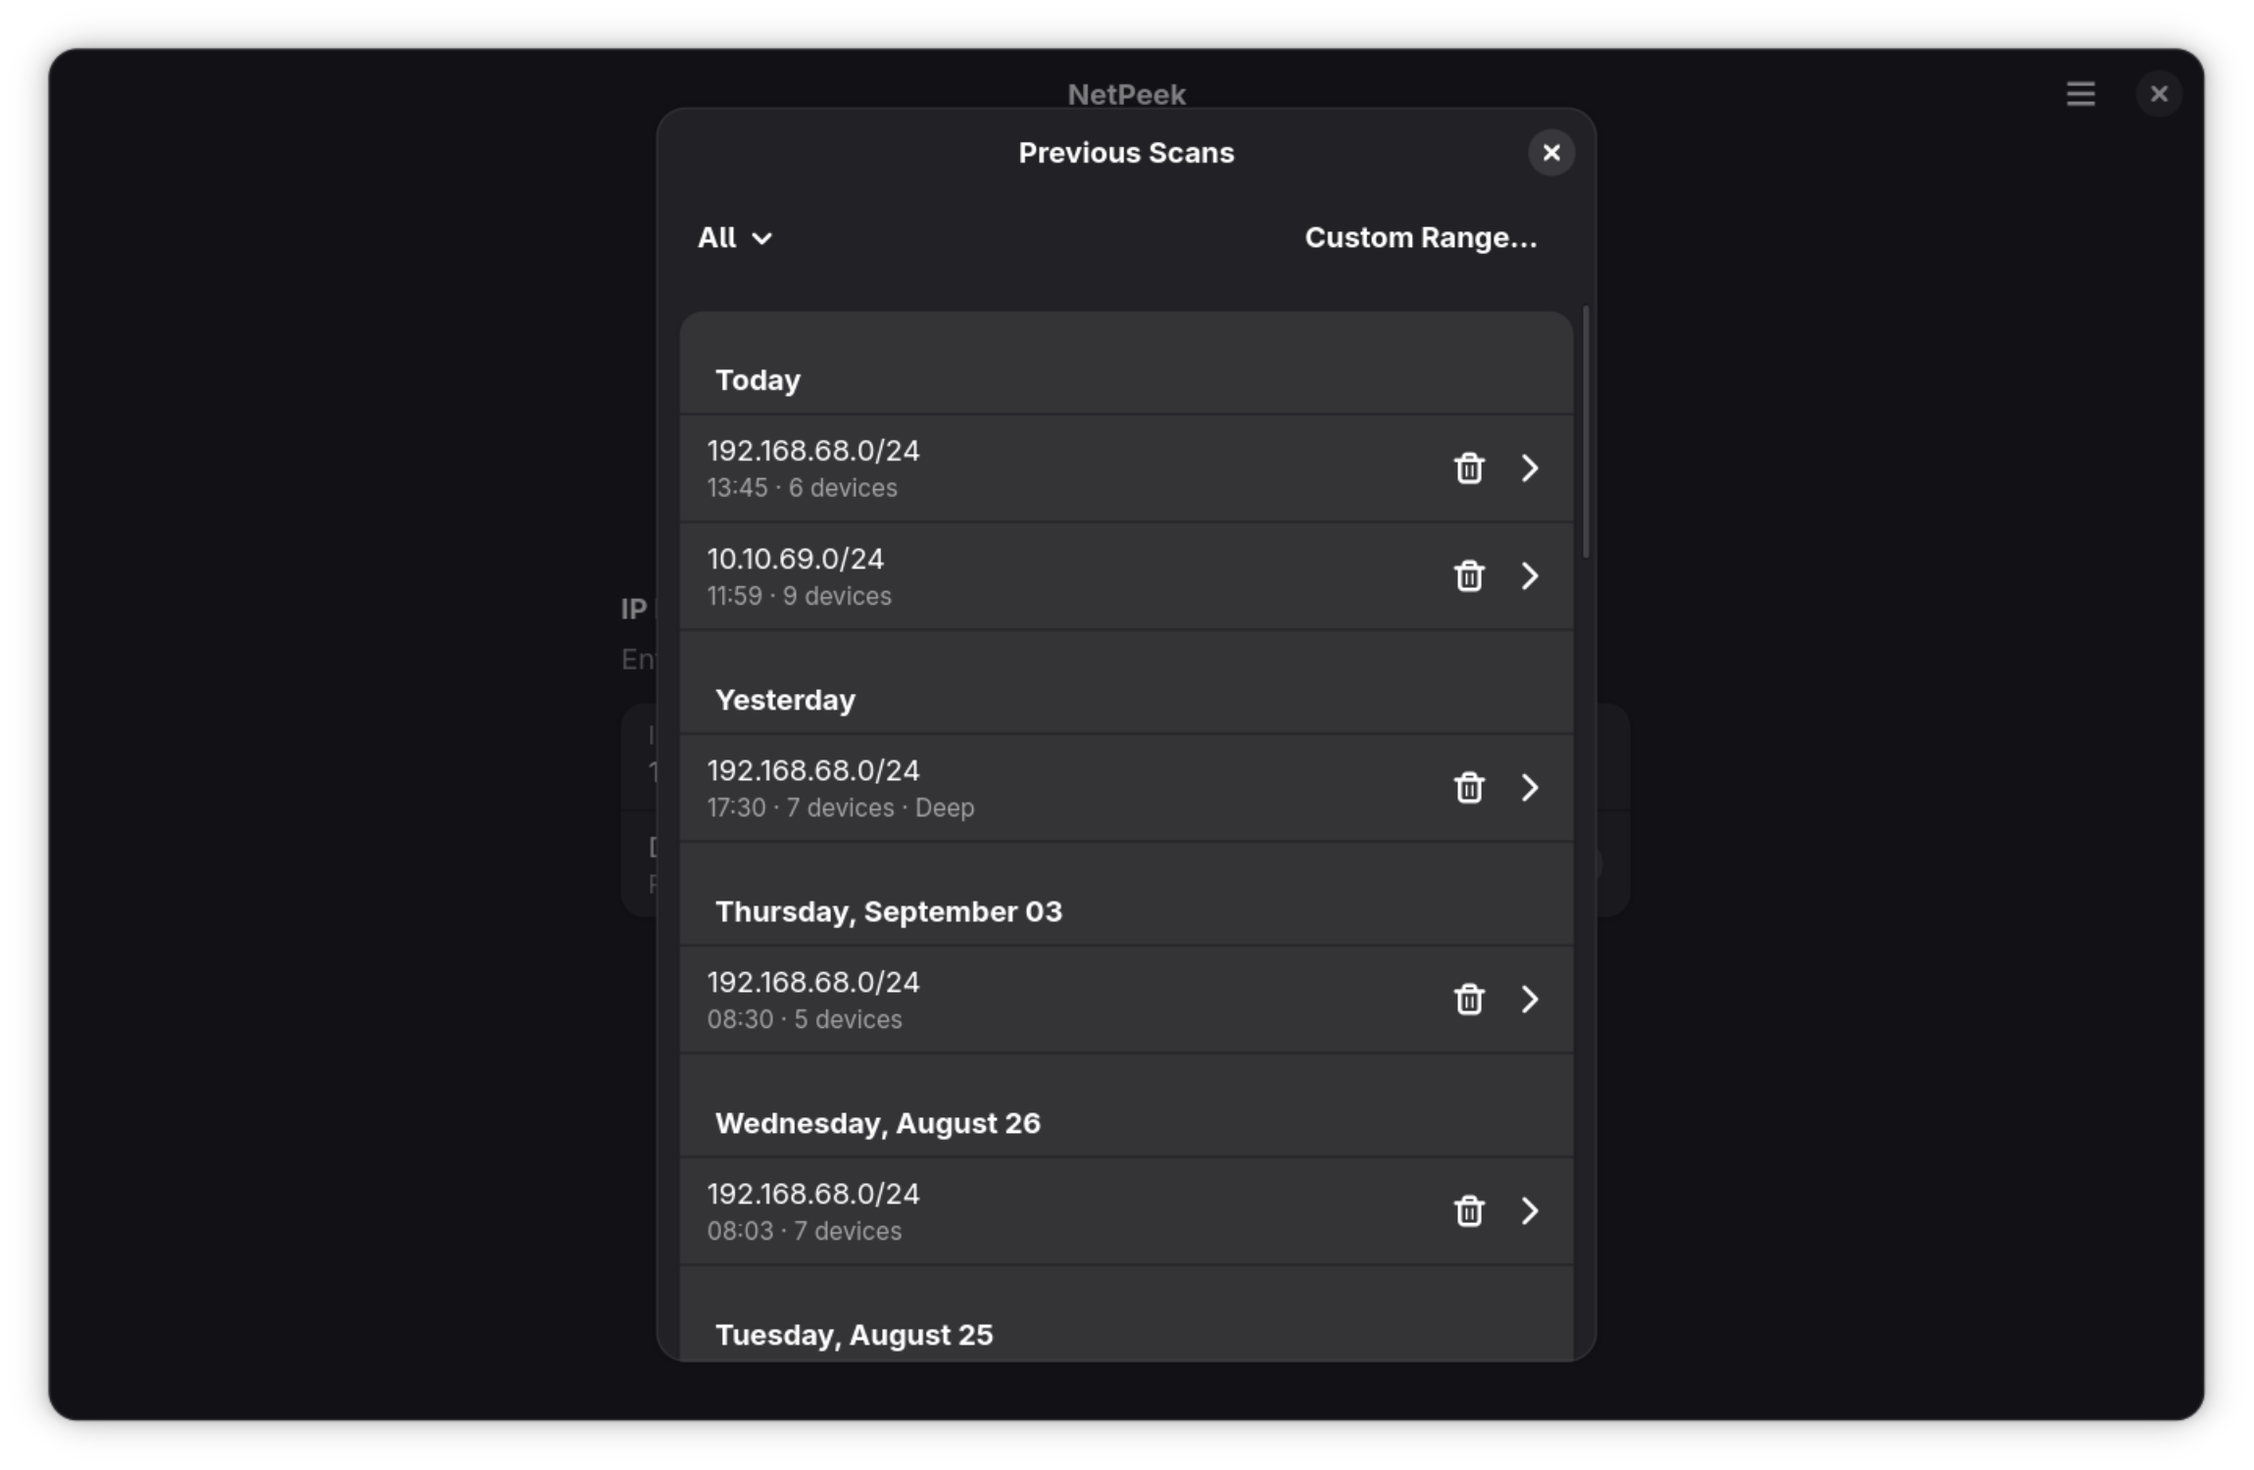
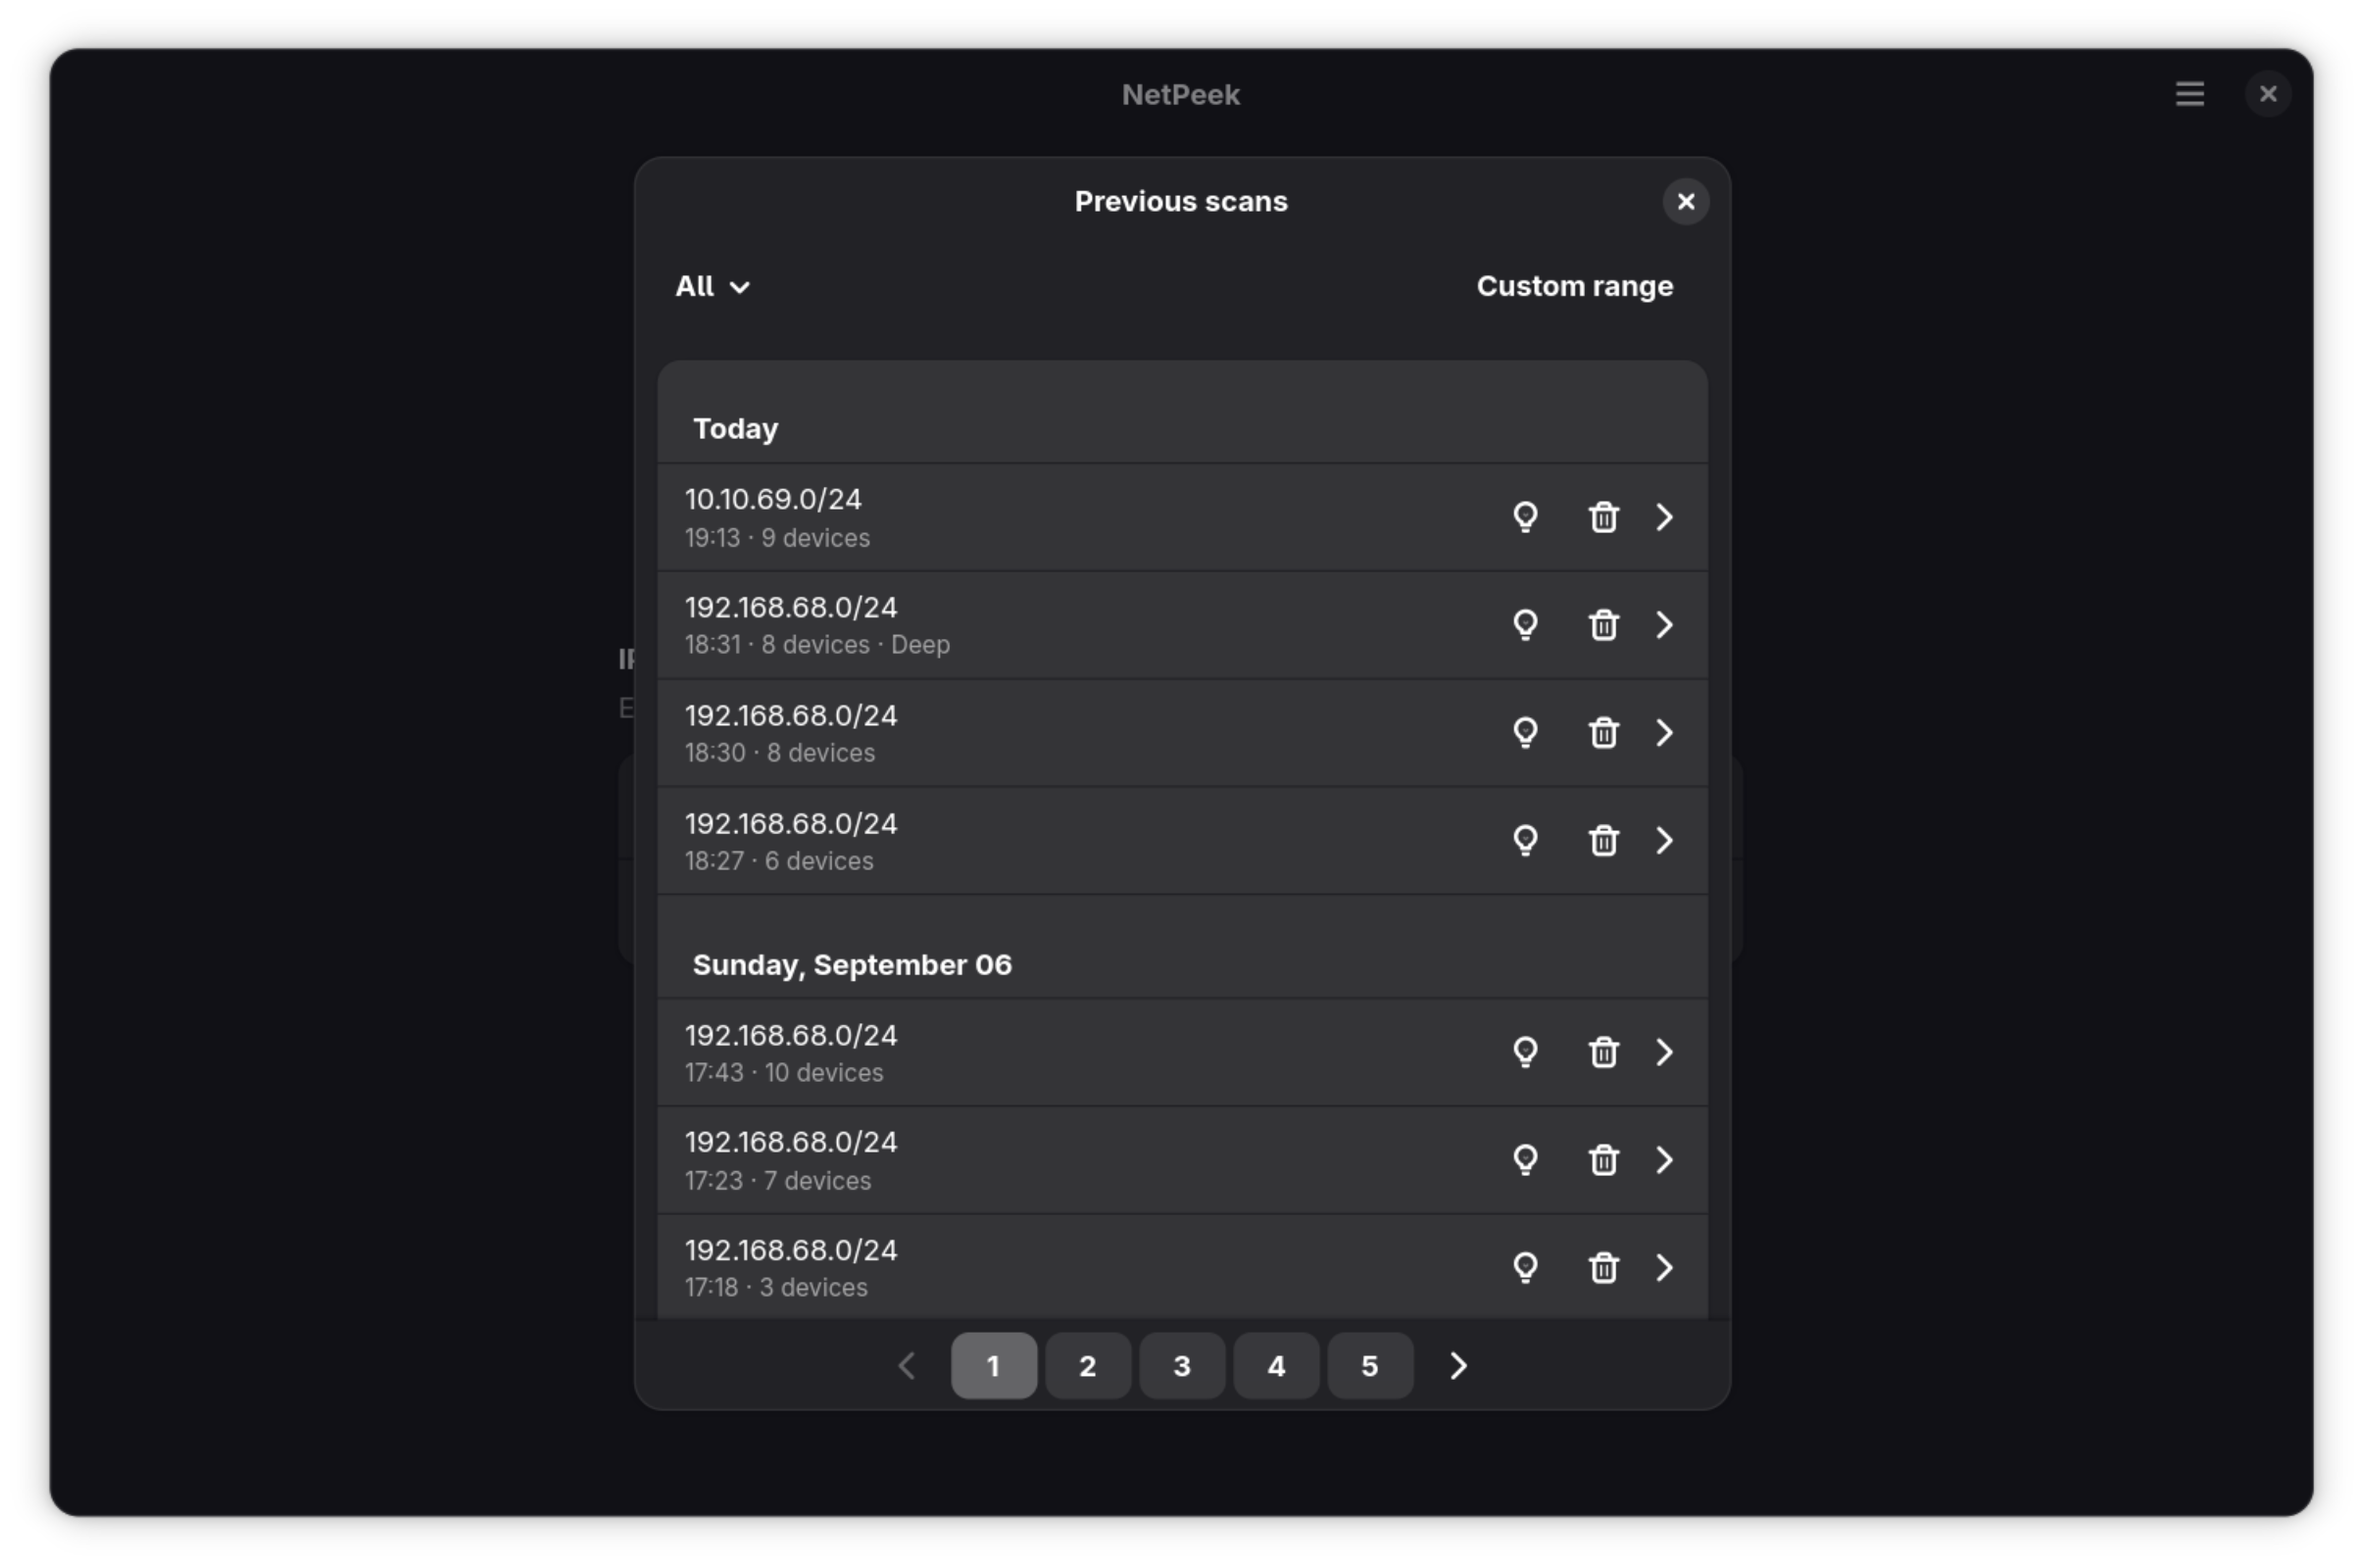
Bump to v0.3.4

diff --git a/src/app.py b/src/app.py
@@ -101,9 +101,13 @@ class NetworkScannerApp(Adw.Application):
         about.add_link(_("Translate"), "https://hosted.weblate.org/engage/netpeek/")
         about.set_application_icon("io.github.zingytomato.netpeek")
         about.add_credit_section(_("Contributors"), ["ZingyTomato", "Gert-Dev", "Cameo007", "vmkspv", "oscfdezdz", "albanobattistella", "sjulien", "dawkagaming", "prescott66"])
-        release_notes = "<ul><li>{grouped}</li><li>{filters}</li></ul>".format(
-            grouped=_("Grouped all IP presets into a single button."),
-            filters=_("Added date filters and custom date ranges to scan history."),
+        release_notes = "<ul><li>{shortcuts}</li><li>{prefs}</li><li>{history}</li><li>{pages}</li><li>{geometry}</li><li>{mobile}</li></ul>".format(
+            shortcuts=_("Added keyboard shortcuts for common actions, with a shortcuts window."),
+            prefs=_("Added a Preferences dialog with display theme and scan thread count."),
+            history=_("History entries now have their own scan information button, and scan information shows the scanned IP range with a copy button."),
+            pages=_("Previous scans list is now paginated for easier browsing."),
+            geometry=_("Window size and maximized state are remembered between sessions."),
+            mobile=_("Reworked results views for narrow screens, with dedicated mobile rows and header actions moving to the bottom bar."),
         )
         about.set_release_notes(release_notes)
         about.set_release_notes_version(version)

diff --git a/README.md b/README.md
@@ -33,61 +33,46 @@
 ## 📷 Screenshots
 
 <p align="center">
-  <img src="https://github.com/ZingyTomato/NetPeek/blob/master/data/screenshots/1.png?raw=true" alt="Home Page" width="700"/>
+  <img src="https://github.com/ZingyTomato/NetPeek/blob/master/data/screenshots/1.png?raw=true" alt="Home page" width="700"/>
 </p>
 
 <p align="center">
-  <img src="https://github.com/ZingyTomato/NetPeek/blob/master/data/screenshots/2.png?raw=true" alt="Scanning in Progress" width="700"/>
+  <img src="https://github.com/ZingyTomato/NetPeek/blob/master/data/screenshots/2.png?raw=true" alt="Scanning in progress" width="700"/>
 </p>
 
 <p align="center">
-  <img src="https://github.com/ZingyTomato/NetPeek/blob/master/data/screenshots/3.png?raw=true" alt="Results Page" width="700"/>
+  <img src="https://github.com/ZingyTomato/NetPeek/blob/master/data/screenshots/3.png?raw=true" alt="Results page" width="700"/>
 </p>
 
 <p align="center">
-  <img src="https://github.com/ZingyTomato/NetPeek/blob/master/data/screenshots/4.png?raw=true" alt="List View" width="700"/>
+  <img src="https://github.com/ZingyTomato/NetPeek/blob/master/data/screenshots/4.png?raw=true" alt="List view" width="700"/>
 </p>
 
 <p align="center">
-  <img src="https://github.com/ZingyTomato/NetPeek/blob/master/data/screenshots/5.png?raw=true" alt="Deep Scan" width="700"/>
+  <img src="https://github.com/ZingyTomato/NetPeek/blob/master/data/screenshots/5.png?raw=true" alt="Deep scan" width="700"/>
 </p>
 
 <p align="center">
-  <img src="https://github.com/ZingyTomato/NetPeek/blob/master/data/screenshots/6.png?raw=true" alt="Previous Scans" width="700"/>
+  <img src="https://github.com/ZingyTomato/NetPeek/blob/master/data/screenshots/6.png?raw=true" alt="Previous scans" width="700"/>
 </p>
 
 ## ⭐ Features
 
-- **Fast Network Scanning** -- Discover active devices on your network
-- **Port Scanning** -- Shows open ports on discovered devices
-- **Service Detection** -- Automatically identifies common services (SMB, Cockpit, MySQL, PostgreSQL, Plex, Home Assistant, and more)
-- **Deep Scan Mode** -- Attempts OS detection and service version identification
-- **Custom Names and History** -- Rename devices, browse and reload previous scans
-- **Scan Info Dialog** -- View detailed scan metadata for current and previous scans
-- **Dark Mode** -- Follow system theme, or force light/dark
-- **Sortable Results** -- Sort by known status, IP, hostname, custom name, ports, services, or OS
-- **Searchable Results** -- Search and filter devices on scan pages
-- **Modern UI** -- Built with GTK4 and libadwaita
-- **Batched Scanning** -- Nmap manages concurrent probes with a configurable number of hosts per batch
-- **Flexible Input** -- Supports CIDR notation (`192.168.1.0/24`), IP ranges (`192.168.1.1-254`), and single IPs
-- **Automatic IP Detection** -- Instantly finds your local IP range
-- **CSV Export** -- Export scan results for use elsewhere
-
-Standard scans check NetPeek's curated TCP ports and show port-based service hints.
-Discovery probes cover that same port list, so devices are not skipped just because
-ports 80 and 443 are filtered. Nmap uses ARP discovery on local Ethernet when
-available and retains its adaptive timing and retry defaults.
-
-Deep scans use Nmap's default version intensity (7) and SMB OS discovery. Service
-labels come from detected protocols/products, including services on unexpected
-ports, rather than assuming an application from its port number. OS details are
-best-effort SMB/service information; raw-packet OS fingerprinting is not enabled.
-Deep scans can take longer, and devices that do not answer any discovery probes
-may still be missed. Neither mode scans every TCP port or performs a UDP scan.
-
-Scan progress shows Nmap's current phase and percentage while each batch runs.
-Completed hosts are collected as Nmap reports them. Stopping terminates the active
-Nmap process, preserves completed results, and discards subsequent callbacks.
+- **Fast Network Scanning**: Discover active devices on your network
+- **Port Scanning**: Shows open ports on discovered devices
+- **Service Detection**: Automatically identifies common services (SMB, Cockpit, MySQL, PostgreSQL, Plex, Home Assistant, and more)
+- **Deep Scan Mode**: Attempts OS detection and service version identification
+- **Custom Names and History**: Rename devices, browse and reload previous scans, with date filters and paged browsing
+- **Scan Info Dialog**: View detailed scan metadata for current and previous scans
+- **Appearance & Preferences**: Follow system theme or force light/dark, and tune scan threads
+- **Sortable Results**: Sort by known status, IP, hostname, custom name, ports, services, or OS
+- **Searchable Results**: Search and filter devices on scan pages
+- **Keyboard Shortcuts**: Full keyboard control with a built-in shortcuts window
+- **Modern UI**: Built with GTK4 and libadwaita
+- **Multi-threaded**: Fast concurrent scanning with a configurable thread count
+- **Flexible Input**: Supports CIDR notation (`192.168.1.0/24`), IP ranges (`192.168.1.1-254`), and single IPs
+- **Automatic IP Detection**: Instantly finds your local IP range
+- **CSV Export**: Export scan results for use elsewhere
 
 ## 🔧 Installation
 
@@ -109,13 +94,13 @@ flatpak install flathub io.github.zingytomato.netpeek
 
 **Fedora COPR:** https://copr.fedorainfracloud.org/coprs/infiniti151/flatpak-apps/package/netpeek/
 
-### 🔨 Building from Source
+### Building from Source
 
 **Dependencies:**
 
 - **Python 3** with **PyGObject** (GTK4 bindings)
-- **[python-nmap](https://pypi.org/project/python-nmap/)** -- nmap library for network scanning
-- **GTK4** and **libadwaita** (>= 1.6)
+- **[python-nmap](https://pypi.org/project/python-nmap/)**: nmap library for network scanning
+- **GTK4** and **libadwaita** (>= 1.8)
 - **[nmap](https://nmap.org/)**
 
 ## 🔨 Local Development
